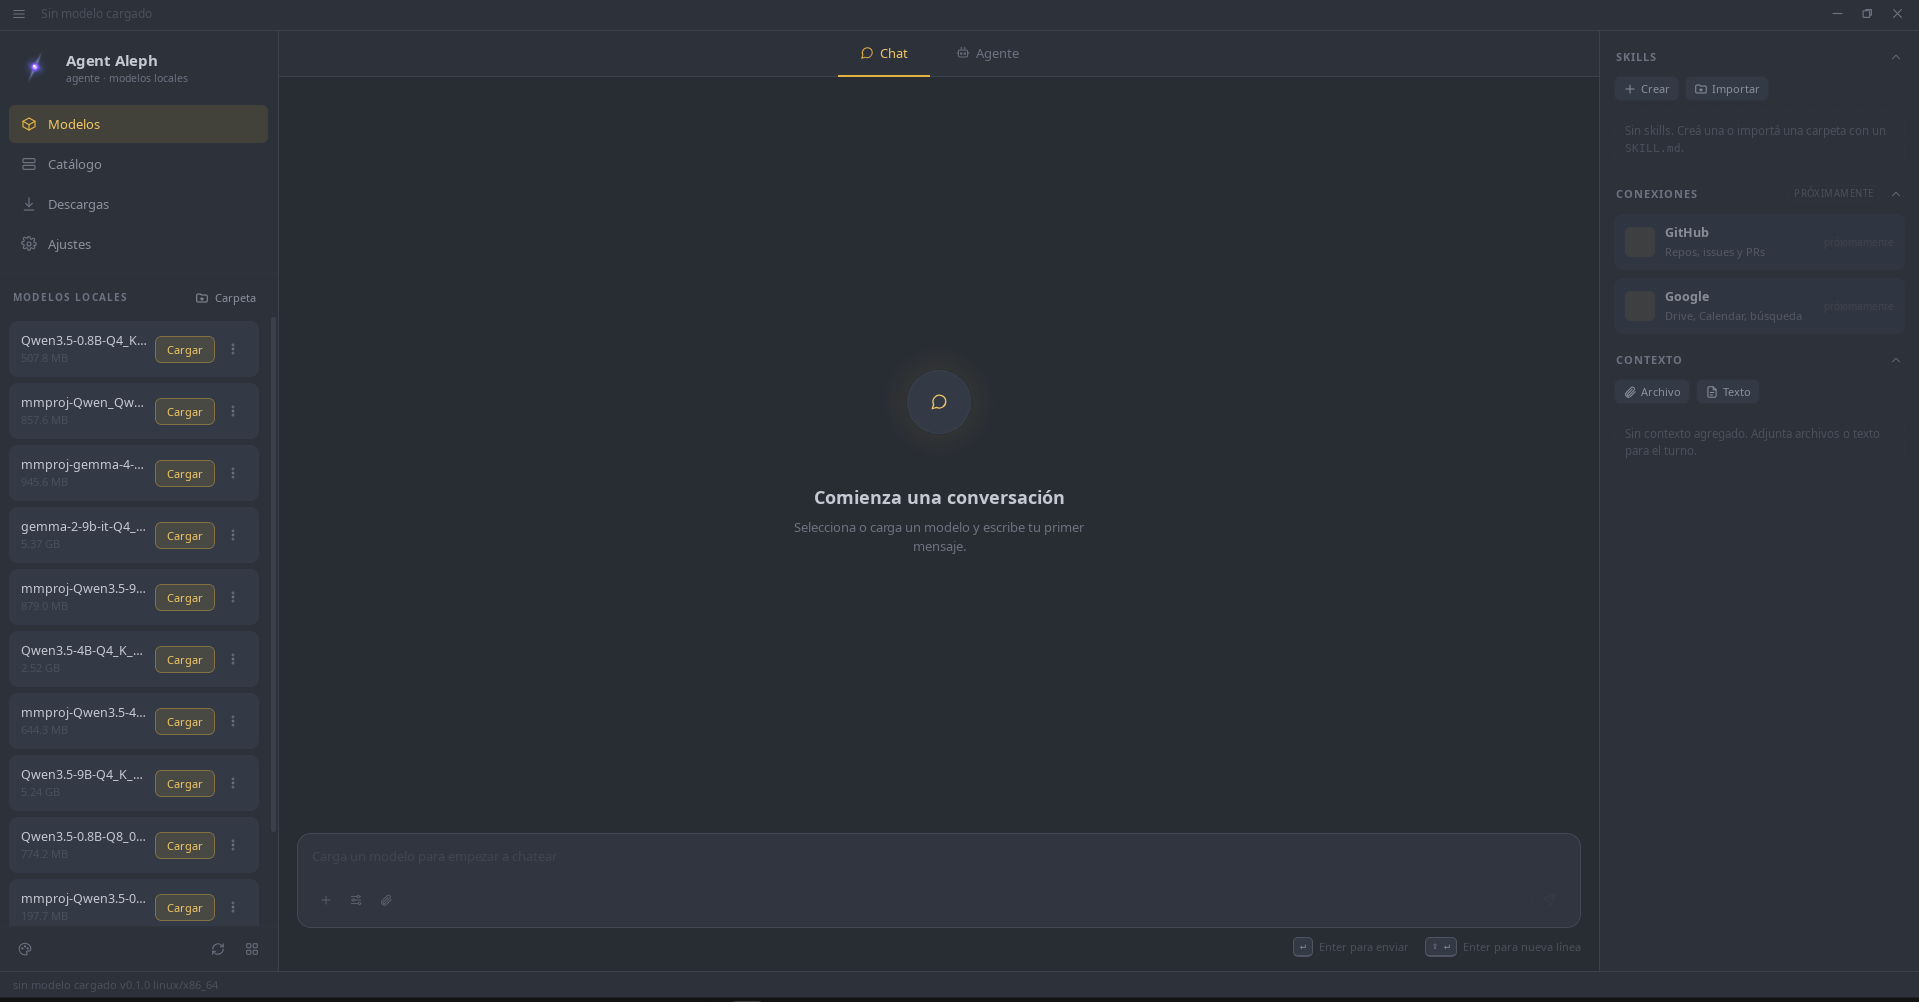
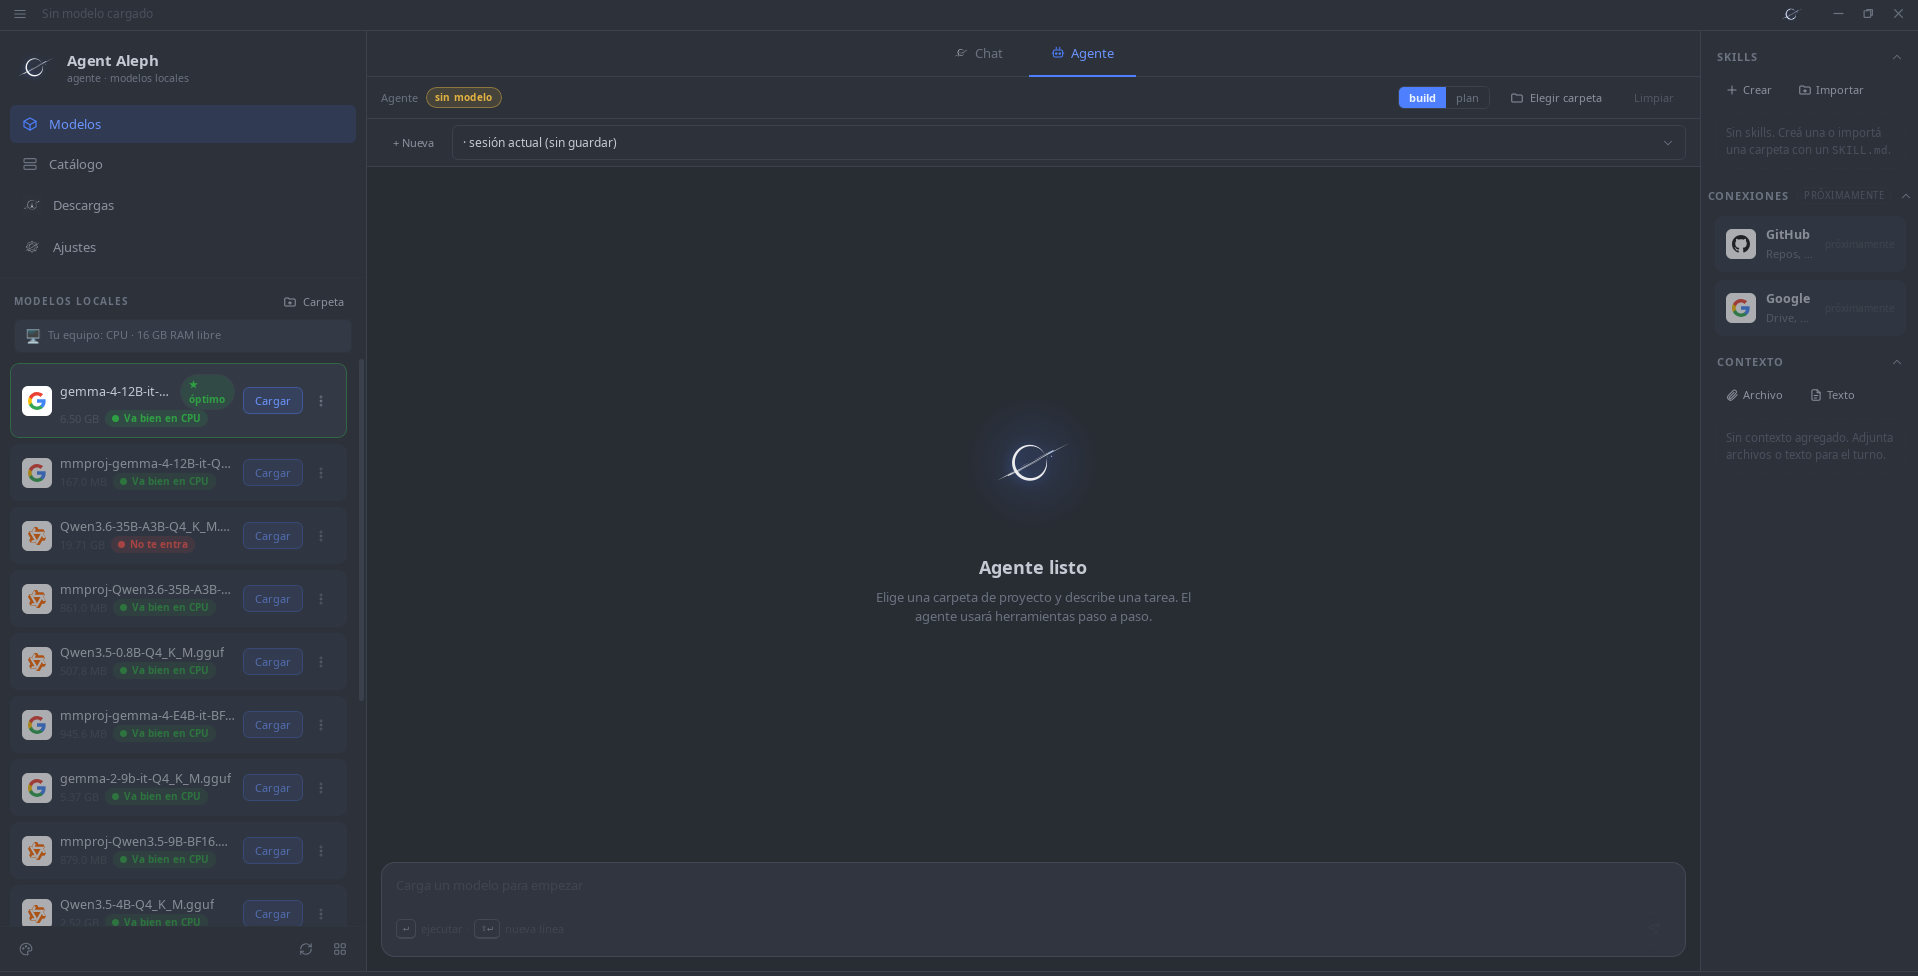
UI: vista Agente con skills/conexiones/contexto, panel de descargas rediseñado y screenshot actualizado

diff --git a/src/components/LocalModels.svelte b/src/components/LocalModels.svelte
@@ -1,6 +1,6 @@
 <script lang="ts">
   import { open } from "@tauri-apps/plugin-dialog";
-  import { api } from "../lib/api";
+  import { api, modelFit, detectHardware, type Hardware, type Fit } from "../lib/api";
   import type { LoadProgress, LocalModel, ModelStatus } from "../lib/types";
   import Icon from "./Icon.svelte";
   import ModelFamilyBadge from "./ModelFamilyBadge.svelte";
@@ -19,6 +19,26 @@
   let dirs = $state<string[]>([]);
   let loading = $state(true);
 
+  // Hardware detectado para el badge "te entra" y la marca de modelo óptimo.
+  let hardware = $state<Hardware | null>(null);
+  let hwLabel = $state("");
+  let contextSize = $state(4096);
+
+  function fitFor(m: LocalModel): Fit {
+    return modelFit(m.size_bytes / 1e9, contextSize, hardware);
+  }
+
+  // Modelo óptimo: el más grande (mayor capacidad) que aún corre fluido (verde);
+  // si ninguno entra holgado, el más grande que al menos sea usable (ámbar).
+  let optimalPath = $derived.by(() => {
+    if (!hardware || local.length === 0) return null;
+    const ranked = [...local].sort((a, b) => b.size_bytes - a.size_bytes);
+    const green = ranked.find((m) => fitFor(m).level === "green");
+    if (green) return green.path;
+    const amber = ranked.find((m) => fitFor(m).level === "amber");
+    return amber ? amber.path : null;
+  });
+
   let loadingId = $state<string | null>(null);
   let menuOpen = $state<string | null>(null);
   let confirmDelete = $state<LocalModel | null>(null);
@@ -36,6 +56,11 @@
 
   $effect(() => {
     refresh();
+    detectHardware().then((hw) => {
+      hardware = hw.hardware;
+      hwLabel = hw.label;
+      contextSize = hw.contextSize;
+    });
   });
 
   async function addFolder() {
@@ -98,6 +123,11 @@
       <Icon name="folder-plus" size="sm" /> Carpeta
     </button>
   </div>
+  {#if hwLabel}
+    <div class="hwbar" title="Estimamos qué modelos te entran según tu memoria libre">
+      <span>🖥️</span><span class="small">Tu equipo: {hwLabel}</span>
+    </div>
+  {/if}
   <div class="scroll" style="padding:6px 10px 10px">
     {#if loading}
       <div class="muted small" style="padding:10px 4px">Cargando…</div>
@@ -111,7 +141,8 @@
       </div>
     {:else}
       {#each local as m (m.path)}
-        <div class="local-row" class:active={isActive(m)}>
+        {@const fit = fitFor(m)}
+        <div class="local-row" class:active={isActive(m)} class:optimal={optimalPath === m.path}>
           <ModelFamilyBadge name={m.name} />
           <div class="col" style="flex:1;min-width:0">
             <div class="row" style="gap:6px">
@@ -119,8 +150,18 @@
               {#if isActive(m)}
                 <span class="tag accent">activo</span>
               {/if}
+              {#if optimalPath === m.path}
+                <span class="tag optimal-tag" title="Mejor equilibrio entre capacidad y rendimiento para tu equipo">★ óptimo</span>
+              {/if}
             </div>
-            <div class="dim small">{m.size_human}</div>
+            <div class="row" style="gap:6px;align-items:center">
+              <span class="dim small">{m.size_human}</span>
+              {#if fit.level !== "unknown"}
+                <span class="fit fit-{fit.level}" title={fit.detail}>
+                  <span class="dot"></span>{fit.label}
+                </span>
+              {/if}
+            </div>
           </div>
           <div class="row" style="gap:4px;position:relative">
             {#if isActive(m)}
@@ -268,6 +309,60 @@
   }
   .local-row.active:hover {
     background: var(--accent-bg-strong);
+  }
+  .local-row.optimal {
+    opacity: 1;
+    border-color: color-mix(in srgb, #2ea043 45%, transparent);
+  }
+  .hwbar {
+    display: flex;
+    align-items: flex-start;
+    gap: 7px;
+    margin: 0 14px 4px;
+    padding: 7px 10px;
+    background: var(--bg-2);
+    border: 1px solid var(--border-soft);
+    border-radius: var(--radius-sm);
+    color: var(--text-2);
+    line-height: 1.45;
+  }
+  .hwbar > span:last-child {
+    flex: 1;
+    min-width: 0;
+  }
+  .optimal-tag {
+    color: #2ea043;
+    background: color-mix(in srgb, #2ea043 16%, transparent);
+    font-weight: 600;
+  }
+  .fit {
+    flex: none;
+    display: inline-flex;
+    align-items: center;
+    gap: 5px;
+    font-size: 10px;
+    font-weight: 600;
+    padding: 1px 7px;
+    border-radius: 999px;
+    white-space: nowrap;
+  }
+  .fit .dot {
+    width: 7px;
+    height: 7px;
+    border-radius: 50%;
+    background: currentColor;
+  }
+  .fit-green {
+    color: #2ea043;
+    background: color-mix(in srgb, #2ea043 16%, transparent);
+  }
+  .fit-amber {
+    color: #d29922;
+    background: color-mix(in srgb, #d29922 16%, transparent);
+  }
+  .fit-red {
+    color: #f85149;
+    background: color-mix(in srgb, #f85149 16%, transparent);
   }
   .name {
     font-weight: 500;

diff --git a/src/components/ModelBrowser.svelte b/src/components/ModelBrowser.svelte
@@ -1,5 +1,5 @@
 <script lang="ts">
-  import { api, modelFit, type Hardware, type Fit } from "../lib/api";
+  import { api, modelFit, detectHardware, type Hardware, type Fit } from "../lib/api";
   import type { CatalogModel, HfModel, HfFile, Topic } from "../lib/types";
   import ModelCard from "./ModelCard.svelte";
   import Select from "./Select.svelte";
@@ -49,36 +49,16 @@
   ];
 
   $effect(() => {
-    Promise.all([
-      api.listCatalog(),
-      api.listTopics(),
-      api.listGpus().catch(() => []),
-      api.systemMemory().catch(() => ({ total_mb: 0, free_mb: 0 })),
-      api.getSettings().catch(() => null),
-    ]).then(([c, tp, gpus, mem, s]) => {
-      catalog = c;
-      topics = tp;
-      loading = false;
-      if (s) contextSize = s.context_size;
-      // Sumo la VRAM libre de TODAS las GPUs aprovechables (descarto iGPU con ~0,
-      // p. ej. Intel UHD). El presupuesto total para "te entra" es VRAM + RAM.
-      const usableGpus = gpus
-        .filter((g) => g.free_mb >= 1024)
-        .sort((a, b) => b.free_mb - a.free_mb);
-      const vramFreeMb = usableGpus.reduce((s, g) => s + g.free_mb, 0);
-      const hasGpu = vramFreeMb >= 1024;
-      hardware = { hasGpu, vramFreeMb, ramFreeMb: mem.free_mb };
-
-      const ramGb = (mem.free_mb / 1024).toFixed(0);
-      if (hasGpu) {
-        const vramGb = (vramFreeMb / 1024).toFixed(1);
-        const totalGb = ((vramFreeMb + mem.free_mb) / 1024).toFixed(0);
-        const gpuName = usableGpus.length > 1 ? `${usableGpus.length} GPUs` : usableGpus[0].name;
-        hwLabel = `${gpuName} · ${vramGb} GB VRAM + ${ramGb} GB RAM (${totalGb} GB útiles)`;
-      } else {
-        hwLabel = `CPU · ${ramGb} GB RAM libre`;
+    Promise.all([api.listCatalog(), api.listTopics(), detectHardware()]).then(
+      ([c, tp, hw]) => {
+        catalog = c;
+        topics = tp;
+        loading = false;
+        hardware = hw.hardware;
+        hwLabel = hw.label;
+        contextSize = hw.contextSize;
       }
-    });
+    );
   });
 
   function fitFor(m: CatalogModel): Fit {

diff --git a/src/lib/api.ts b/src/lib/api.ts
@@ -219,6 +219,46 @@ export function modelFit(sizeGb: number, contextSize: number, hw: Hardware | nul
   return { level: "red", label: "No te entra", detail: "Supera tu RAM disponible." };
 }
 
+/** Hardware detectado + etiqueta legible + tamaño de contexto, para el badge "te entra". */
+export interface HardwareInfo {
+  hardware: Hardware;
+  label: string;
+  contextSize: number;
+}
+
+/**
+ * Detecta GPUs + RAM libre y los normaliza en un único presupuesto VRAM+RAM.
+ * Compartido entre el Catálogo y los modelos locales para no duplicar el cálculo.
+ */
+export async function detectHardware(): Promise<HardwareInfo> {
+  const [gpus, mem, s] = await Promise.all([
+    api.listGpus().catch(() => [] as GpuDevice[]),
+    api.systemMemory().catch(() => ({ total_mb: 0, free_mb: 0 } as SystemMemory)),
+    api.getSettings().catch(() => null),
+  ]);
+  // Sumo la VRAM libre de TODAS las GPUs aprovechables (descarto iGPU con ~0,
+  // p. ej. Intel UHD). El presupuesto total para "te entra" es VRAM + RAM.
+  const usableGpus = gpus
+    .filter((g) => g.free_mb >= 1024)
+    .sort((a, b) => b.free_mb - a.free_mb);
+  const vramFreeMb = usableGpus.reduce((sum, g) => sum + g.free_mb, 0);
+  const hasGpu = vramFreeMb >= 1024;
+  const hardware: Hardware = { hasGpu, vramFreeMb, ramFreeMb: mem.free_mb };
+
+  const ramGb = (mem.free_mb / 1024).toFixed(0);
+  let label: string;
+  if (hasGpu) {
+    const vramGb = (vramFreeMb / 1024).toFixed(1);
+    const totalGb = ((vramFreeMb + mem.free_mb) / 1024).toFixed(0);
+    const gpuName = usableGpus.length > 1 ? `${usableGpus.length} GPUs` : usableGpus[0].name;
+    label = `${gpuName} · ${vramGb} GB VRAM + ${ramGb} GB RAM (${totalGb} GB útiles)`;
+  } else {
+    label = `CPU · ${ramGb} GB RAM libre`;
+  }
+
+  return { hardware, label, contextSize: s ? s.context_size : 4096 };
+}
+
 export function humanSize(n: number): string {
   if (n >= 1e9) return (n / 1e9).toFixed(2) + " GB";
   if (n >= 1e6) return (n / 1e6).toFixed(1) + " MB";

diff --git a/src-tauri/src/lib.rs b/src-tauri/src/lib.rs
@@ -77,6 +77,24 @@ pub fn run() {
             );
             Ok(())
         })
+        .on_window_event(|window, event| {
+            if let tauri::WindowEvent::CloseRequested { .. } = event {
+                let state = window.state::<Arc<AppState>>();
+                let state = state.inner().clone();
+                std::thread::spawn(move || {
+                    let rt = tokio::runtime::Runtime::new().unwrap();
+                    rt.block_on(async {
+                        let mut server = state.server.lock().await;
+                        if let Some(h) = server.as_mut() {
+                            let _ = h.kill().await;
+                        }
+                        *server = None;
+                    });
+                })
+                .join()
+                .ok();
+            }
+        })
         .run(tauri::generate_context!())
         .expect("error while running tauri application");
 }

diff --git a/README.md b/README.md
@@ -72,11 +72,24 @@ bundle.
 - **Sesiones persistentes** con memoria entre turnos.
 
 ### Modelos
-- **Catálogo curado** (Qwen 3.5 / 3.6, Llama 4, Phi-4, Gemma 4, Mistral…) + búsqueda libre en HF Hub.
+- **Catálogo curado** (Qwen 3.5 / 3.6, Phi-4, Gemma 4, incluidas variantes MoE y QAT) +
+  búsqueda libre y exploración del HF Hub (por descargas, likes, tendencia o recientes).
+- **Navegación por temática**: chips de uso (Código, Razonamiento, Sin censura, Agente,
+  Roleplay, Legal, Médico, Finanzas) que lanzan búsquedas curadas en HF. Para áreas con
+  poco material (legal/médico/finanzas) se sugieren primero **generalistas fuertes** del
+  catálogo y luego los especializados, con su aviso.
+- **Badge "¿te entra?"**: cada modelo muestra 🟢 / 🟡 / 🔴 según tu hardware detectado —
+  suma la **VRAM libre de tus GPUs + la RAM** (con más peso en VRAM) y te dice si correrá
+  fluido, lento (offload a CPU) o si no entra. Sin tener que descifrar tamaños y cuantizaciones.
+- **Catálogo y temas editables sin recompilar**: se cargan de un `catalog.json` local
+  (`~/.config/agent-aleph/catalog.json`) con fallback embebido; personalizá modelos o
+  agregá temas a mano.
 - **Descarga con progreso** (velocidad, cancelable) de archivos GGUF.
 - **Carga con progreso en %** y barra en vivo durante la inicialización del modelo.
 - **Gestión local**: listar, cargar, expulsar, eliminar; carpetas de modelos externas.
 - **Chat con streaming** token-a-token (modo "Ask" sin herramientas).
+- **Paneles laterales redimensionables**: arrastrá los bordes de la barra lateral y del panel
+  derecho; los anchos se recuerdan entre sesiones.
 
 ### Inferencia
 - Ajustes: system prompt, temperature, top_p, max_tokens, context size, repeat penalty,
@@ -135,38 +148,48 @@ La app crea estos directorios:
 
 ---
 
-## Habilitar GPU (NVIDIA, opcional)
+## GPU
 
-El bundle usa el build **CPU** de llama.cpp. Para offload a GPU:
+`setup-llama.sh` baja por defecto el build **Vulkan x64**, así que el offload a GPU
+funciona out-of-the-box con NVIDIA, AMD e Intel (vía Vulkan) — la app detecta tus GPUs y su
+VRAM libre, lo refleja en el badge "¿te entra?" y reparte capas automáticamente. En
+*Ajustes* podés dejar el **auto-fit** o fijar las **GPU layers** a mano.
 
-1. Descargá un build con GPU de `llama-server` desde
-   [llama.cpp releases](https://github.com/ggml-org/llama.cpp/releases)
-   (ej. el paquete CUDA o Vulkan para Linux x64).
-2. Reemplazá el contenido de `src-tauri/binaries/llama-linux-x64/` con esos binarios + `.so`.
-3. En *Ajustes* → **GPU layers** subí el valor (o dejá el auto-fit).
+¿Preferís otro backend? Pasá `LLAMA_FLAVOR` al script:
+
+```bash
+LLAMA_FLAVOR=x64          ./scripts/setup-llama.sh   # CPU puro
+LLAMA_FLAVOR=rocm-7.2-x64 ./scripts/setup-llama.sh   # AMD ROCm
+LLAMA_FLAVOR=sycl-fp16-x64 ./scripts/setup-llama.sh  # Intel oneAPI
+```
 
 Los binarios traen sus propias librerías runtime, así que funcionan sin instalar el toolkit
-en el sistema.
+en el sistema. Para un build CUDA específico, reemplazá el contenido de
+`src-tauri/binaries/llama-linux-x64/` con los binarios + `.so` del release de
+[llama.cpp](https://github.com/ggml-org/llama.cpp/releases).
 
 ---
 
 ## Modelos recomendados según hardware
 
-> Actualizado a **junio de 2026**. Generaciones vigentes: **Qwen 3.5 / 3.6**,
-> **Gemma 4**, **Llama 4**, **Phi-4**. Tamaños aproximados para cuantización **Q4_K_M**.
+> Actualizado a **junio de 2026**. Generaciones vigentes en el catálogo: **Qwen 3.5 / 3.6**,
+> **Gemma 4**, **Phi-4**. Tamaños aproximados para cuantización **Q4_K_M**.
+>
+> 💡 No hace falta que memorices esta tabla: la app detecta tu GPU + RAM y marca cada modelo
+> con 🟢 / 🟡 / 🔴 ("¿te entra?"). Esto es solo una referencia rápida.
 
 | Hardware | Modelo recomendado (Q4_K_M) | Tamaño aprox. |
 |----------|-----------------------------|---------------|
-| 8 GB RAM, CPU | Qwen 3.5 0.8B / Gemma 4 (mini) | ~0.6–1 GB |
+| 8 GB RAM, CPU | Qwen 3.5 0.8B / 2B | ~0.5–1.3 GB |
 | 16 GB RAM, CPU | Qwen 3.5 4B / Phi-4 mini | ~2.5 GB |
-| 16 GB RAM + GPU 8 GB | Qwen 3.5 9B / Llama 4 8B | ~5 GB |
-| 24–32 GB RAM/VRAM | Qwen 3.5 Coder 14B / Gemma 4 12B | ~8–9 GB |
-| 32 GB+ RAM (MoE) | Qwen 3.6 35B-A3B *(MoE, ~3B activos → rápido)* | ~18–20 GB |
+| 16 GB RAM + GPU 6–8 GB | Qwen 3.5 9B / Gemma 4 E4B | ~5 GB |
+| 24–32 GB RAM/VRAM | Phi-4 14B / Gemma 4 12B | ~7–9 GB |
+| 32 GB+ RAM o VRAM (MoE) | Qwen 3.6 35B-A3B *(MoE, ~3B activos → rápido)* | ~18–22 GB |
 
-Para el **modo agente** conviene un modelo *coder* (p. ej. **Qwen 3.5 Coder 14B**) o un
-**MoE** como **Qwen 3.6 35B-A3B**, que rinde como un modelo grande pero corre rápido porque
-solo activa ~3B de parámetros por token. Los modelos muy chicos (≤1B) sirven para probar el
-flujo, pero fallan más en tareas reales.
+Para el **modo agente** conviene un modelo fuerte en código/tools (usá el chip **Código** o
+**Agente** para buscarlos) o un **MoE** como **Qwen 3.6 35B-A3B**, que rinde como un modelo
+grande pero corre rápido porque solo activa ~3B de parámetros por token. Los modelos muy
+chicos (≤1B) sirven para probar el flujo, pero fallan más en tareas reales.
 
 ---
 